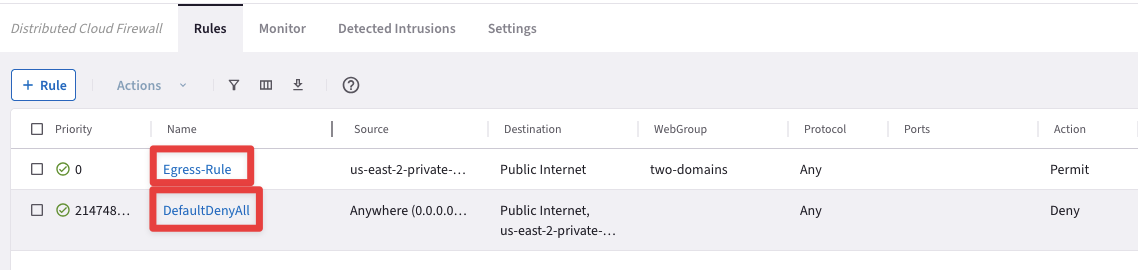
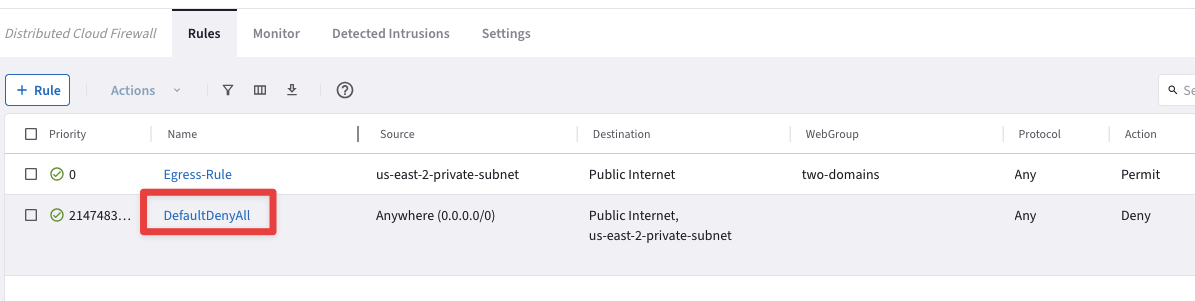
update for pro

diff --git a/ace_pro/docs/lab5.md b/ace_pro/docs/lab5.md
@@ -451,8 +451,8 @@ WebGroup creation
 The purpose of this **WebGroup** is to authorize traffic only towards both the Domains *`www.aviatrix.com`* and *`www.wikipedia.com`*, therefore the curl commands issued towards other Domains will be blocked.
 ```
 
-## 6. Edit the Egress-Rule 
-### 6.1 Apply a change on an existing rule
+## 6. Create an _"editable"_ Explicit -Deny-Rule 
+### 6.1 Edit the Egree-Rule
 
 Go to **CoPilot > Security > Distributed Cloud Firewall > Rules**, click on the **pencil** button on the right-hand side of the `Egress-Rule`.
 
@@ -479,6 +479,61 @@ Commit the changes
 ```{important}
 - **Anywhere (0.0.0.0/0)** = Represents all CIDR ranges or IP addresses. 
 - **Publlic Internet** = Represents non-RFC 1918 IP ranges, or the public Internet
+```
+
+After having enforced the Egress-Rule you will notice that automatically ther Controller has applied at the very bottom, the `DefaultDenyAll` rule. 
+
+```{figure} images/lab6-webgroup23456.png
+---
+height: 200px
+align: center
+---
+Egress-Rule + DefaultDenyAll
+```
+
+However, this rule is NOT editable, therefore any matches against the DefaultDenyRule will not generate any logs.
+
+```{figure} images/lab6-defaultdenyall01.png
+---
+height: 200px
+align: center
+---
+Not editable
+```
+
+### 6.1 Create an ad-hoc Explicit-Deny-Rule
+
+Go to **CoPilot > Security > Distributed Cloud Firewall > Rules (default tab)** and create a new rule clicking on the `"+ Rule"` button.
+
+```{figure} images/lab6-defaultdenyall02.png
+---
+height: 200px
+align: center
+---
+Not editable
+```
+
+Insert the following parameters
+
+- **Name**: <span style='color:#479608'>Explicit-Deny-Rule</span>
+- **Source Smartgroups**: <span style='color:#479608'>Anywhere (0.0.0.0/0)</span>
+- **Destination Smartgroups**: <span style='color:#479608'>Anywhere (0.0.0.0/0)</span>
+- **Protocol**: <span style='color:#479608'>Any</span>
+- **Enforcement**: <span style='color:#479608'>**On**</span>
+- **Logging**: <span style='color:#479608'>On</span>
+- **Action**: <span style='color:#479608'>**Deny**</span>
+- **Rule Priority**:
+  - **Place Rule**: <span style='color:#479608'>**Below**</span>
+  - **Existing Rulee**: <span style='color:#479608'>**Egress-Rule**</span>
+
+Do not forget to click on **Save In Drafts**.
+
+```{figure} images/lab6-defaultdenyall03.png
+---
+height: 200px
+align: center
+---
+Not editable
 ```
 
 Now you have effectively activated the **ZTNA** approach.
